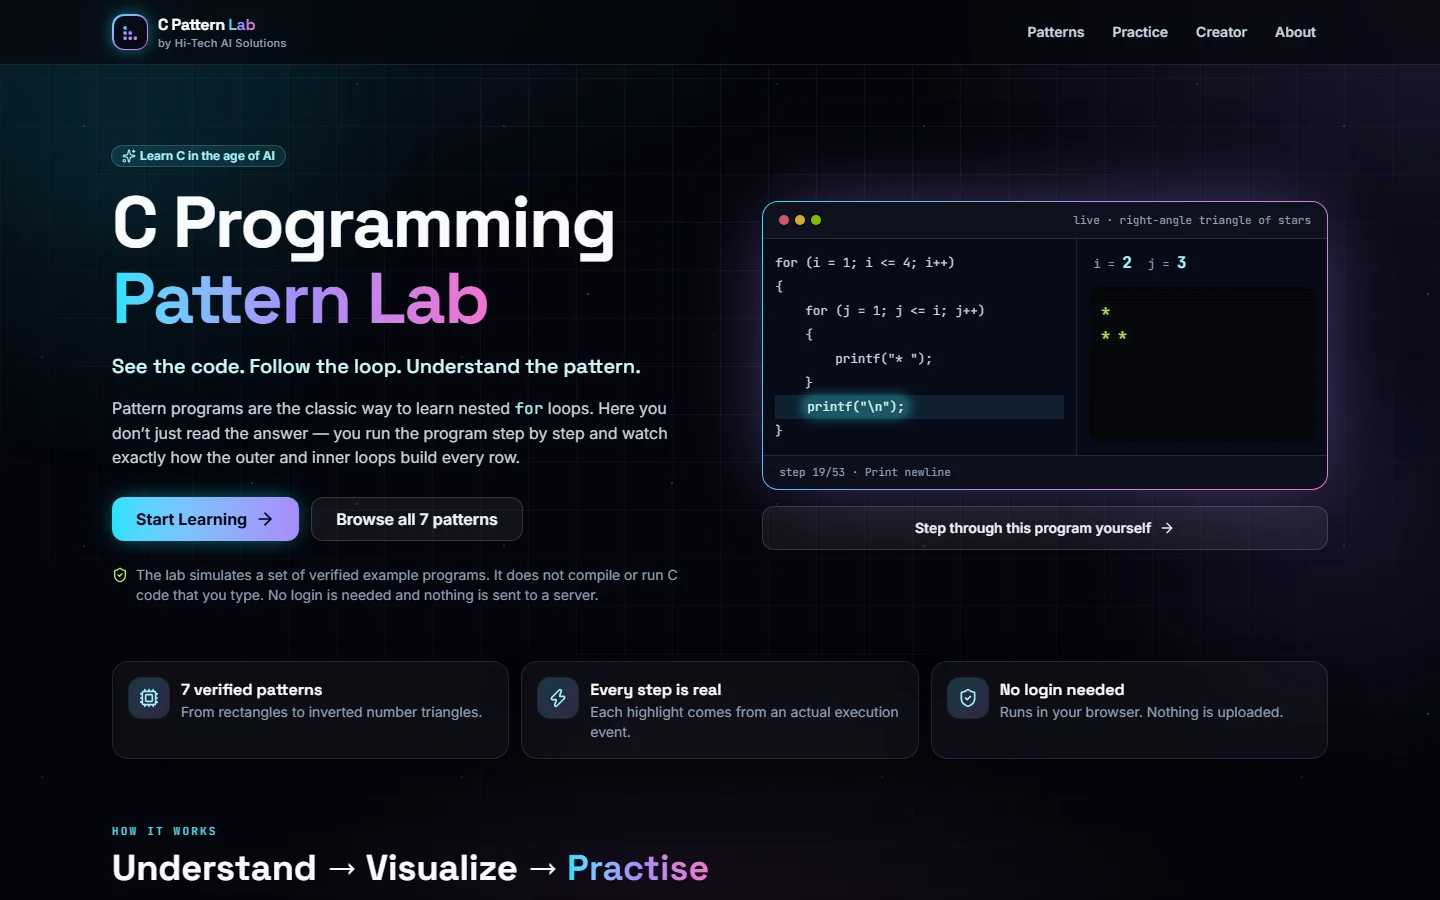
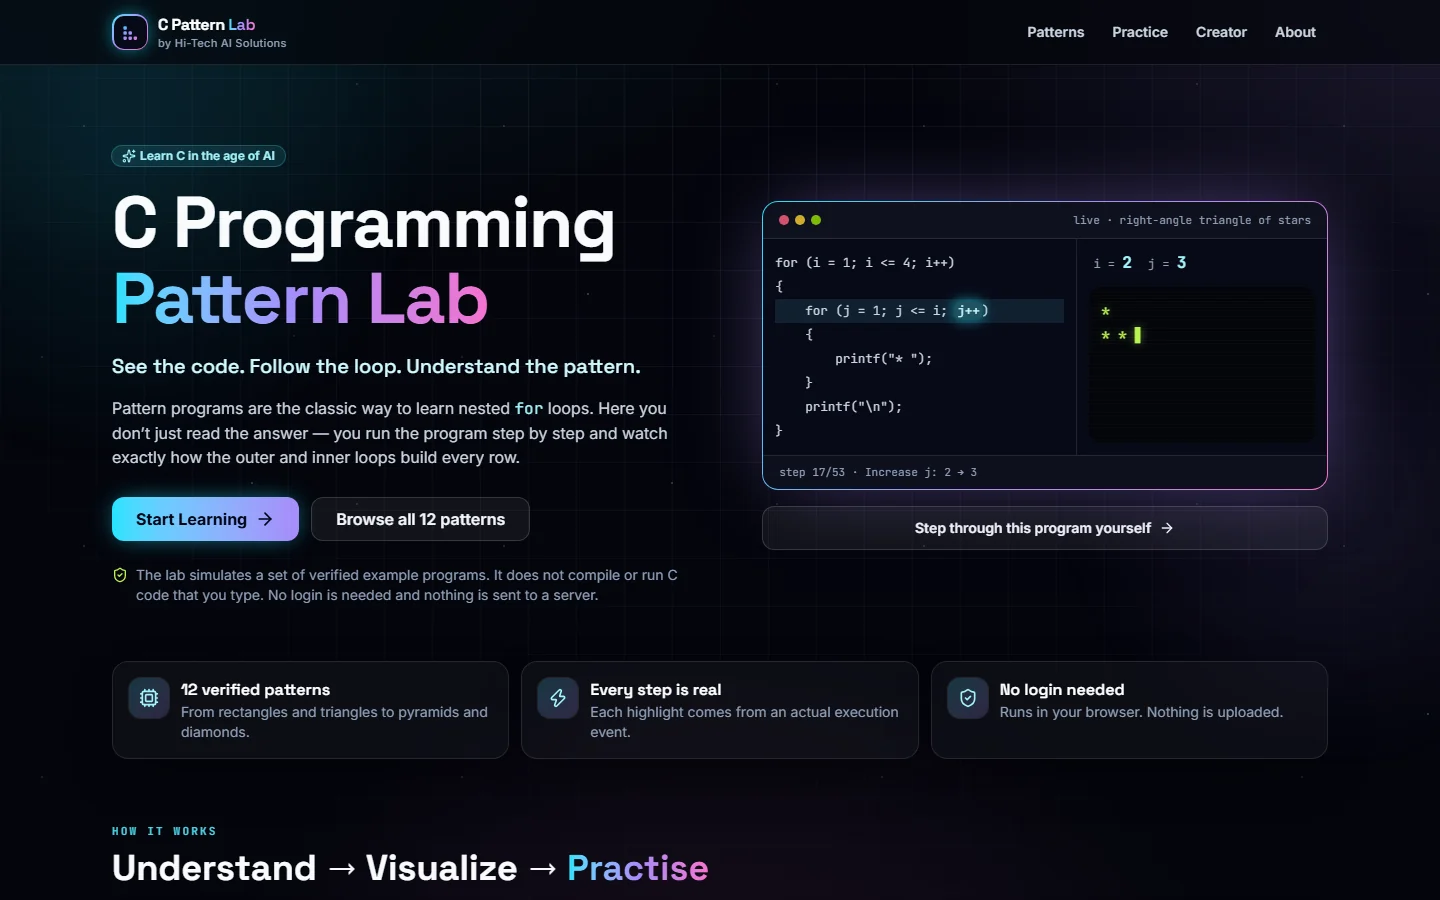
docs: refresh README screenshots for pyramids & diamonds
- New screenshots: diamond (desktop, lower half starting at i = 3),
  solid pyramid (phone, 2 * i - 1 worked out), library filtered to
  pyramids & diamonds; refreshed home and creator shots
- Remove the old triangle-only simulator screenshots
- Screenshot script can step to a chosen explanation
- Home page: highlight text now mentions pyramids and diamonds
- Progress notes updated

diff --git a/src/pages/HomePage.tsx b/src/pages/HomePage.tsx
@@ -28,7 +28,7 @@ const STEPS = [
 ];
 
 const HIGHLIGHTS = [
-  { icon: Cpu, title: `${PATTERNS.length} verified patterns`, text: 'From rectangles to inverted number triangles.' },
+  { icon: Cpu, title: `${PATTERNS.length} verified patterns`, text: 'From rectangles and triangles to pyramids and diamonds.' },
   { icon: Zap, title: 'Every step is real', text: 'Each highlight comes from an actual execution event.' },
   { icon: ShieldCheck, title: 'No login needed', text: 'Runs in your browser. Nothing is uploaded.' },
 ];

diff --git a/README.md b/README.md
@@ -8,14 +8,16 @@
 
 <table>
   <tr>
-    <td width="68%"><img src="docs/screenshots/simulator-desktop.webp" alt="Simulator on desktop at step 12 of the number triangle: the condition j &lt;= i is highlighted, the variables show i = 2 and j = 1, and the dry-run trace runs below." /></td>
-    <td width="32%"><img src="docs/screenshots/simulator-mobile.webp" alt="Simulator on a phone at step 7 of the star triangle: 2 &lt;= 1 is FALSE, so the inner loop ends." /></td>
+    <td width="68%"><img src="docs/screenshots/diamond-desktop.webp" alt="Diamond of Stars on desktop at step 79 of 138: the upper half has printed four rows and the lower-half loop starts with i = 3. The code shows the upper-half and lower-half comments, and the variables panel shows i = 3, j = 1 and k = 5." /></td>
+    <td width="32%"><img src="docs/screenshots/pyramid-mobile.webp" alt="Solid Pyramid on a phone at step 50 of 97: the condition k &lt;= 2 * i - 1 is worked out as 1 &lt;= 5, true, and the variables tab shows i = 3, j = 2 and k = 1." /></td>
   </tr>
   <tr>
-    <td align="center"><sub>Desktop simulator: code, variables, output and dry-run trace stay in sync</sub></td>
-    <td align="center"><sub>Mobile-first: panel tabs and a thumb-friendly control dock</sub></td>
+    <td align="center"><sub>Diamond: two outer loops in a row. The lower half starts at i = 3, so the widest row is printed only once</sub></td>
+    <td align="center"><sub>Mobile-first: arithmetic limits worked out step by step (here 2 * i - 1 = 5)</sub></td>
   </tr>
 </table>
+
+<p align="center"><img src="docs/screenshots/library-pyramids.webp" width="860" alt="The pattern library filtered to Pyramids and diamonds, showing five lessons: Pyramid of Stars, Number Pyramid, Solid Pyramid (Odd Stars), Inverted Pyramid and Diamond of Stars, each with an output preview." /><br /><sub>12 patterns across 4 levels, from rectangles to pyramids and diamonds</sub></p>
 
 An interactive, browser-based lab that teaches **nested `for` loops** through classic C pattern programs. Students pick a pattern, read the C code, and run it **one operation at a time**. They watch the highlighted statement, the values of `i` and `j`, each condition being checked, the output growing character by character, and a dry-run table built from the same execution.
 

diff --git a/docs/PROGRESS.md b/docs/PROGRESS.md
@@ -42,7 +42,7 @@ The user decided against a QR code; the link is shared directly.
 - Everything above is committed, pushed and **live**. There are no open bugs and no uncommitted work.
 - The user has been reviewing the app locally and then asking for commit + push. **Always ask before pushing.**
 - Suggested next tasks, none started:
-  1. Refresh the README screenshots so they show a pyramid or diamond lesson (§ 9).
+  1. ~~Refresh the README screenshots to show a pyramid or diamond~~ ✅ done: the diamond, the solid pyramid on a phone, and the library filtered to pyramids.
   2. Optionally add the live URL to the GitHub repository's "About → Website" field. The user does this on GitHub.
   3. Add more patterns from § 10. Hollow shapes first need `if-else` support in the engine.
 
@@ -242,7 +242,7 @@ The sources are in `docs/assets-src/`:
 |---|---|---|
 | `og-card.html` | `public/og-image.jpg` | Render at 1200×630 with headless Chrome (example below), then save as JPEG, quality about 86, **under 300 KB** |
 | `icon.html` | `public/icon-512.png` | Render at 512×512, then downscale with Pillow to `icon-192.png` and `apple-touch-icon.png` (180). Headless Chrome has a minimum window width, so small direct renders come out cropped |
-| `shoot-screenshots.mjs` | `docs/screenshots/*.png` | `node docs/assets-src/shoot-screenshots.mjs <outDir> https://c-programming-pattern-lab.vercel.app` drives headless Chrome over the DevTools protocol. Convert the results to WebP for the README. **Note:** the current README screenshots (taken at `adcb9a7`) were made before the pyramids existed. They are still accurate but show only triangle lessons; to include one, add a pyramid or diamond shot to the script |
+| `shoot-screenshots.mjs` | `docs/screenshots/*.png` | `node docs/assets-src/shoot-screenshots.mjs <outDir> https://c-programming-pattern-lab.vercel.app` drives headless Chrome over the DevTools protocol. It steps a lesson until a given explanation appears (for example `Start lower half loop`). It captures home, diamond (desktop), solid pyramid (phone), the library filtered to pyramids, and creator. Convert the results to WebP (quality about 86) into `docs/screenshots/` |
 
 Example render command (PowerShell, separate profile so the user's Chrome is untouched):
 
